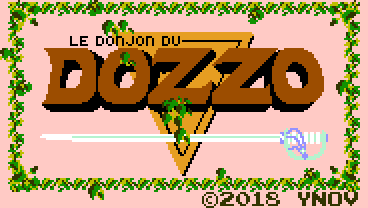
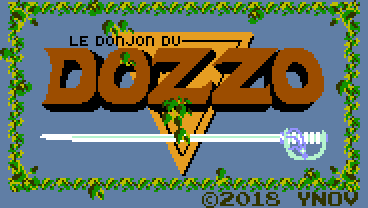
Display 0.2

diff --git a/index.html b/index.html
@@ -21,26 +21,21 @@
 
     <div class="flex-container">
 
-        <div class="container gameHeader">
+        <div class="container">
             <p></p>
             <img src="img/bannerDozzo.png">
             <p></p>
         </div>
 
-        <div class="container gameInfo">
+        <div class="container flex-container"> 
+
+            <div class="gameBorder"></div>
+            <div id="Dozzo"></div>
+            <div class="gameBorder"></div>
+            <div class="gameInfo">
+
             <p>Informations :</p>
-        </div>
-    </div>
 
-    <div class="flex-container">
-
-        <div class="container flex-container">
-            <div class="gameBorder"></div>
-            <div class="gameContent" id="Dozzo"></div>
-            <div class="gameBorder"></div>
-        </div>
-
-        <div class="container gameInfo">
             <p>Classes disponibles :</p>
             <div class="tooltip" id="hero-0"></div>
             <div class="tooltip" id="hero-1"></div>
@@ -48,6 +43,7 @@
             <div class="tooltip" id="hero-3"></div>
             <p id="key"></p>
             <p id="select"></p>
+            </div>
         </div>
     </div>
 </body>

diff --git a/css/style.css b/css/style.css
@@ -19,7 +19,7 @@ html, body{
     height: 100%;
     margin: 0;
     image-rendering: pixelated;
-    background-color: #FFCAC5;
+    background-color: #607EA5;
 }
 
 .selection {
@@ -107,17 +107,10 @@ kbd {
   }
 .container{
     margin: auto;
-    width: 50%;}
-
-.gameHeader {
-    background-color: #FFCAC5;
+    width: 100%;
 }
 .gameInfo {
-    background-color: #FFCAC5;
-}
-.gameContent {
-    background-color: #FFCAC5;
-    width: 80%;
+    width: 40%;
 }
 .gameBorder {
     width: 10%;
@@ -126,6 +119,7 @@ kbd {
 #Dozzo {
     background-color: #fff;
     height: 300px;
+    width: 40%;
 }
 
 .combat-img{
@@ -137,11 +131,11 @@ kbd {
     background-color: black;
     color: white;
     width: 60%;
-    margin: 105px auto auto;
+    margin: auto auto auto;
 }
 
 .option{
-    margin: 224px auto auto;
+    margin: 50px auto auto;
 }
 
 .son-option{
